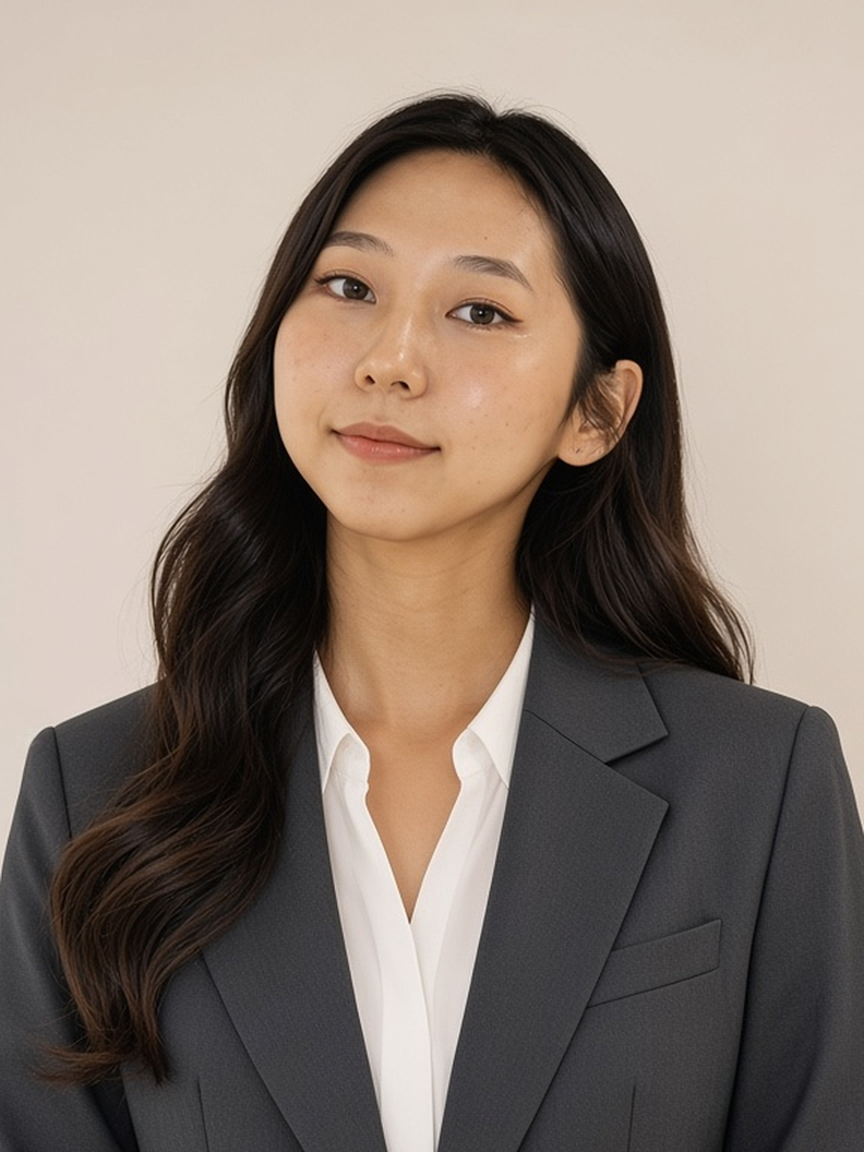
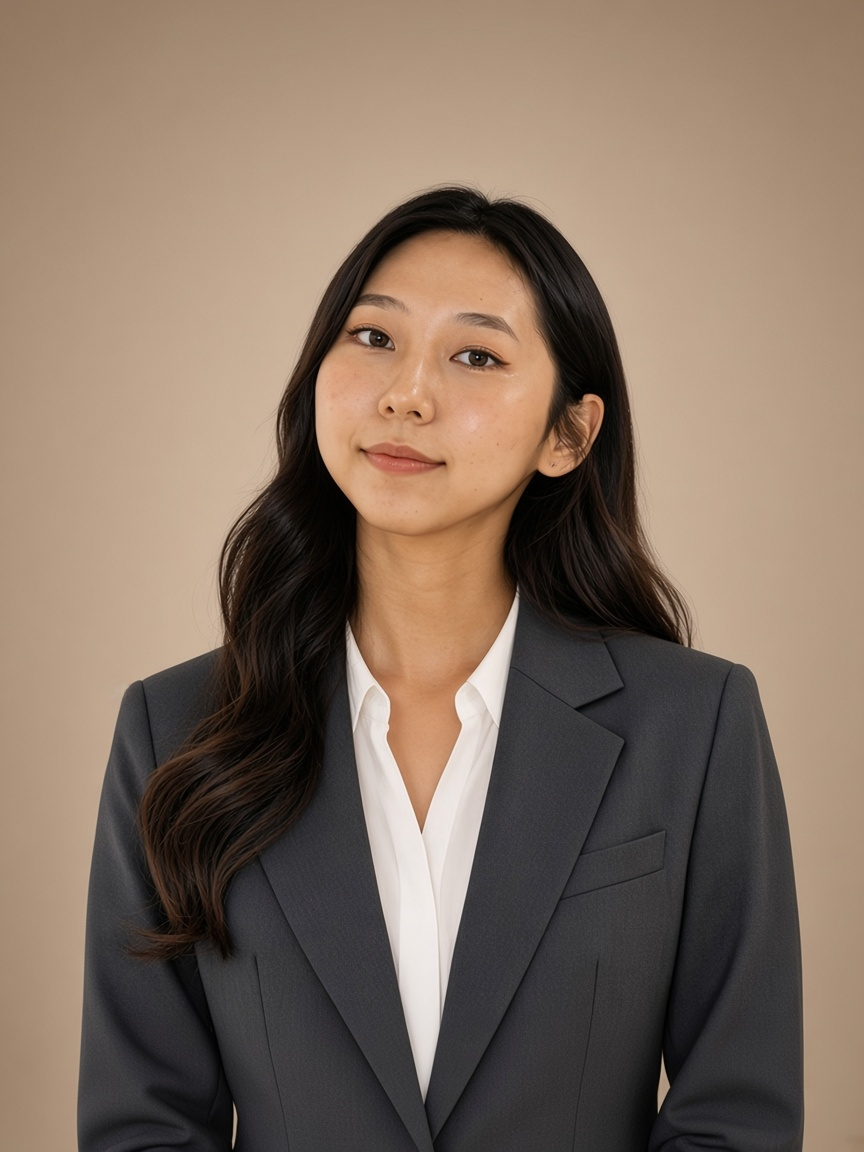
Pull the first teammate portrait farther back and add the sixth card.

diff --git a/index.html b/index.html
@@ -125,7 +125,7 @@
       <div class="team-stage">
         <div class="team-swipe" id="team-track">
           <article class="team-card is-on">
-            <img src="assets/img/team-suit-preview-4.png" alt="Kairakbay Inabat">
+            <img src="assets/img/team-suit-preview-4.png?v=far" alt="Kairakbay Inabat">
             <div class="team-cap"><b>Kairakbay Inabat</b><span>Team Leader</span></div>
           </article>
           <article class="team-card">
@@ -143,6 +143,10 @@
           <article class="team-card">
             <img src="assets/img/team-suit-preview-5.png" alt="Murat Akniyet">
             <div class="team-cap"><b>Murat Akniyet</b><span>Deputy leader</span></div>
+          </article>
+          <article class="team-card">
+            <img src="assets/img/team-suit-preview-10.png" alt="Name Surname">
+            <div class="team-cap"><b>Name Surname</b><span>Team Leader</span></div>
           </article>
         </div>
         <button class="team-next" id="team-next" type="button" aria-label="Next">
